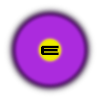
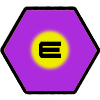
Some adjustments to energyOrbs

diff --git a/scene5.js b/scene5.js
@@ -139,8 +139,16 @@ class Scene5 extends Phaser.Scene {
                         enemy.disableBody(true, true);
                         if (lives < 99) { 
                             let energyOrb = energyOrbs.create(enemy.x, enemy.y, 'energyOrb');
-                            energyOrb.setOrigin(0.5, 0.5).setScale(0.5).setDepth(2.5);
-                            energyOrb.body.setSize(50, 50);
+                            energyOrb.setOrigin(0.5, 0.5).setScale(0.4).setDepth(0.25);
+                            energyOrb.body.setSize(80, 80);
+                            selfs.tweens.add({
+                                targets: energyOrb,
+                                alpha: 0.9,
+                                duration: 500,
+                                yoyo: true,
+                                repeat: -1,
+                                ease: 'Sine.easeOutIn',
+                            });
                             energyOrb.setVelocityY(-500);
                             selfs.physics.add.collider(energyOrb, platforms);
                             selfs.physics.add.overlap(player, energyOrb, function() { increaseLives(); sound_energyPick.play(); energyOrb.destroy(); });
@@ -165,8 +173,16 @@ class Scene5 extends Phaser.Scene {
                     enemy.disableBody(true, true);
                     if (lives < 99) { 
                         let energyOrb = energyOrbs.create(enemy.x, enemy.y, 'energyOrb');
-                        energyOrb.setOrigin(0.5, 0.5).setScale(0.5).setDepth(2.5);
-                        energyOrb.body.setSize(50, 50);
+                        energyOrb.setOrigin(0.5, 0.5).setScale(0.4).setDepth(0.25);
+                        energyOrb.body.setSize(80, 80);
+                        selfs.tweens.add({
+                            targets: energyOrb,
+                            alpha: 0.9,
+                            duration: 500,
+                            yoyo: true,
+                            repeat: -1,
+                            ease: 'Sine.easeOutIn',
+                        });
                         energyOrb.setVelocityY(-500);
                         selfs.physics.add.collider(energyOrb, platforms);
                         selfs.physics.add.overlap(player, energyOrb, function() { increaseLives(); sound_energyPick.play(); energyOrb.destroy(); });
@@ -234,8 +250,16 @@ class Scene5 extends Phaser.Scene {
                         lilWasp.disableBody(true, true);
                         if (lives < 99) { 
                             let energyOrb = energyOrbs.create(lilWasp.x, lilWasp.y, 'energyOrb');
-                            energyOrb.setOrigin(0.5, 0.5).setScale(0.5).setDepth(2.5);
-                            energyOrb.body.setSize(50, 50);
+                            energyOrb.setOrigin(0.5, 0.5).setScale(0.4).setDepth(0.25);
+                            energyOrb.body.setSize(80, 80);
+                            selfss.tweens.add({
+                                targets: energyOrb,
+                                alpha: 0.9,
+                                duration: 500,
+                                yoyo: true,
+                                repeat: -1,
+                                ease: 'Sine.easeOutIn',
+                            });
                             energyOrb.setVelocityY(-500);
                             selfss.physics.add.collider(energyOrb, platforms);
                             selfss.physics.add.overlap(player, energyOrb, function() { increaseLives(); sound_energyPick.play(); energyOrb.destroy(); });
@@ -264,11 +288,19 @@ class Scene5 extends Phaser.Scene {
                         lilWasp.disableBody(true, true);
                         if (lives < 99) { 
                             let energyOrb = energyOrbs.create(lilWasp.x, lilWasp.y, 'energyOrb');
-                            energyOrb.setOrigin(0.5, 0.5).setScale(0.5).setDepth(2.5);
-                            energyOrb.body.setSize(50, 50);
+                            energyOrb.setOrigin(0.5, 0.5).setScale(0.4).setDepth(0.25);
+                            energyOrb.body.setSize(80, 80);
+                            selfss.tweens.add({
+                                targets: energyOrb,
+                                alpha: 0.9,
+                                duration: 500,
+                                yoyo: true,
+                                repeat: -1,
+                                ease: 'Sine.easeOutIn',
+                            });
                             energyOrb.setVelocityY(-500);
-                            selfs.physics.add.collider(energyOrb, platforms);
-                            selfs.physics.add.overlap(player, energyOrb, function() { increaseLives(); sound_energyPick.play(); energyOrb.destroy(); });
+                            selfss.physics.add.collider(energyOrb, platforms);
+                            selfss.physics.add.overlap(player, energyOrb, function() { increaseLives(); sound_energyPick.play(); energyOrb.destroy(); });
                         }
                         let lilWaspF = lilWaspFs.create(lilWasp.x, lilWasp.y, 'lilWaspF');
                         if (player.x <= lilWasp.x) {

diff --git a/scene1.js b/scene1.js
@@ -132,8 +132,16 @@ class Scene1 extends Phaser.Scene {
                         enemy.disableBody(true, true);
                         if (lives < 99) { 
                             let energyOrb = energyOrbs.create(enemy.x, enemy.y, 'energyOrb');
-                            energyOrb.setOrigin(0.5, 0.5).setScale(0.5).setDepth(2.5);
-                            energyOrb.body.setSize(50, 50);
+                            energyOrb.setOrigin(0.5, 0.5).setScale(0.4).setDepth(0.25);
+                            energyOrb.body.setSize(80, 80);
+                            self.tweens.add({
+                                targets: energyOrb,
+                                alpha: 0.9,
+                                duration: 500,
+                                yoyo: true,
+                                repeat: -1,
+                                ease: 'Sine.easeOutIn',
+                            });
                             energyOrb.setVelocityY(-500);
                             self.physics.add.collider(energyOrb, platforms);
                             self.physics.add.overlap(player, energyOrb, function() { increaseLives(); sound_energyPick.play(); energyOrb.destroy(); });
@@ -159,8 +167,16 @@ class Scene1 extends Phaser.Scene {
                     enemy.disableBody(true, true);
                     if (lives < 99) { 
                         let energyOrb = energyOrbs.create(enemy.x, enemy.y, 'energyOrb');
-                        energyOrb.setOrigin(0.5, 0.5).setScale(0.5).setDepth(2.5);
-                        energyOrb.body.setSize(50, 50);
+                        energyOrb.setOrigin(0.5, 0.5).setScale(0.4).setDepth(0.25);
+                        energyOrb.body.setSize(80, 80);
+                        self.tweens.add({
+                            targets: energyOrb,
+                            alpha: 0.9,
+                            duration: 500,
+                            yoyo: true,
+                            repeat: -1,
+                            ease: 'Sine.easeOutIn',
+                        });
                         energyOrb.setVelocityY(-500);
                         selfs.physics.add.collider(energyOrb, platforms);
                         selfs.physics.add.overlap(player, energyOrb, function() { increaseLives(); sound_energyPick.play(); energyOrb.destroy(); });

diff --git a/scene3.js b/scene3.js
@@ -138,8 +138,16 @@ class Scene3 extends Phaser.Scene {
                     enewee.disableBody(true, true);
                     if (lives < 99) { 
                         let energyOrb = energyOrbs.create(enewee.x, enewee.y, 'energyOrb');
-                        energyOrb.setOrigin(0.5, 0.5).setScale(0.5).setDepth(2.5);
-                        energyOrb.body.setSize(50, 50);
+                        energyOrb.setOrigin(0.5, 0.5).setScale(0.4).setDepth(0.25);
+                        energyOrb.body.setSize(80, 80);
+                        selfs.tweens.add({
+                            targets: energyOrb,
+                            alpha: 0.9,
+                            duration: 500,
+                            yoyo: true,
+                            repeat: -1,
+                            ease: 'Sine.easeOutIn',
+                        });
                         energyOrb.setVelocityY(-500);
                         selfs.physics.add.collider(energyOrb, platforms);
                         selfs.physics.add.overlap(player, energyOrb, function() { increaseLives(); sound_energyPick.play(); energyOrb.destroy(); });
@@ -163,8 +171,17 @@ class Scene3 extends Phaser.Scene {
                     enewee.disableBody(true, true);
                     if (lives < 99) { 
                         let energyOrb = energyOrbs.create(enewee.x, enewee.y, 'energyOrb');
-                        energyOrb.setOrigin(0.5, 0.5).setScale(0.5).setDepth(2.5);
-                        energyOrb.body.setSize(50, 50);
+                        energyOrb.setOrigin(0.5, 0.5).setScale(0.4).setDepth(0.25);
+                        energyOrb.body.setSize(80, 80);
+
+                        selfs.tweens.add({
+                            targets: energyOrb,
+                            alpha: 0.9,
+                            duration: 500,
+                            yoyo: true,
+                            repeat: -1,
+                            ease: 'Sine.easeOutIn',
+                        });
                         energyOrb.setVelocityY(-500);
                         selfs.physics.add.collider(energyOrb, platforms);
                         selfs.physics.add.overlap(player, energyOrb, function() { increaseLives(); sound_energyPick.play(); energyOrb.destroy(); });

diff --git a/scene7.js b/scene7.js
@@ -148,8 +148,16 @@ class Scene7 extends Phaser.Scene {
                 wasp.disableBody(true, true);
                 if (lives < 99) { 
                     let energyOrb = energyOrbs.create(wasp.x, wasp.y, 'energyOrb');
-                    energyOrb.setOrigin(0.5, 0.5).setScale(0.5).setDepth(2.5);
-                    energyOrb.body.setSize(50, 50);
+                    energyOrb.setOrigin(0.5, 0.5).setScale(0.4).setDepth(0.25);
+                    energyOrb.body.setSize(80, 80);
+                    selfs.tweens.add({
+                        targets: energyOrb,
+                        alpha: 0.9,
+                        duration: 500,
+                        yoyo: true,
+                        repeat: -1,
+                        ease: 'Sine.easeOutIn',
+                    });
                     energyOrb.setVelocityY(-500);
                     selfs.physics.add.collider(energyOrb, platforms);
                     selfs.physics.add.overlap(player, energyOrb, function() { increaseLives(); sound_energyPick.play(); energyOrb.destroy(); });

diff --git a/preload.js b/preload.js
@@ -143,7 +143,7 @@ class Preload extends Phaser.Scene {
       this.anims.create({key: 'waspAttack', frames: this.anims.generateFrameNumbers('wasp', { start: 3, end: 5 }), frameRate: 10, repeat: 0});
       this.anims.create({key: 'babyWaspChill', frames: this.anims.generateFrameNumbers('babyWasp', { start: 0, end: 3 }), frameRate: 10, repeat: -1});
 
-      this.scene.start('Scene3');
+      this.scene.start('First');
 
     }
 

diff --git a/scene9.js b/scene9.js
@@ -61,7 +61,6 @@ class Scene9 extends Phaser.Scene {
         player.anims.play('idleBack');
 
         selfs = this;
-        energyOrbs = this.physics.add.group();
         beeconFs = this.physics.add.group();
 
         gameOverImage = this.physics.add.staticGroup();
